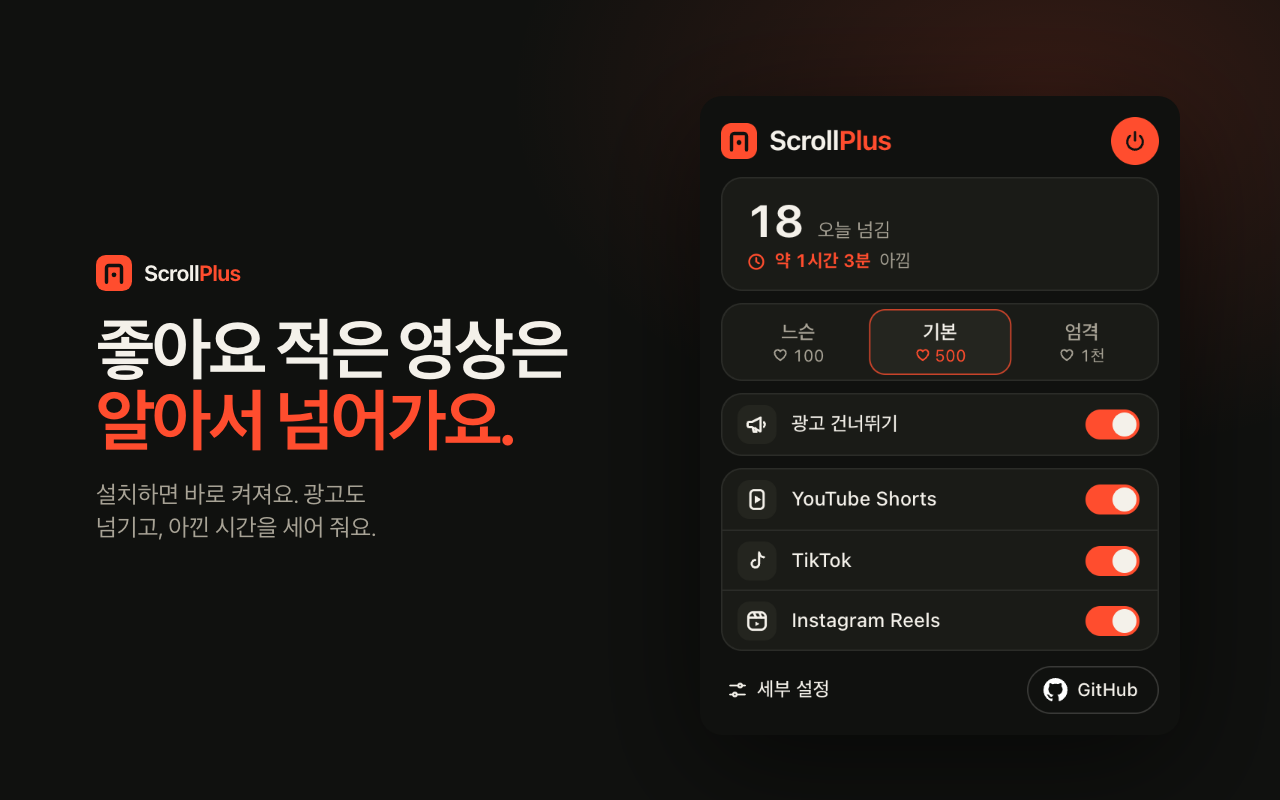
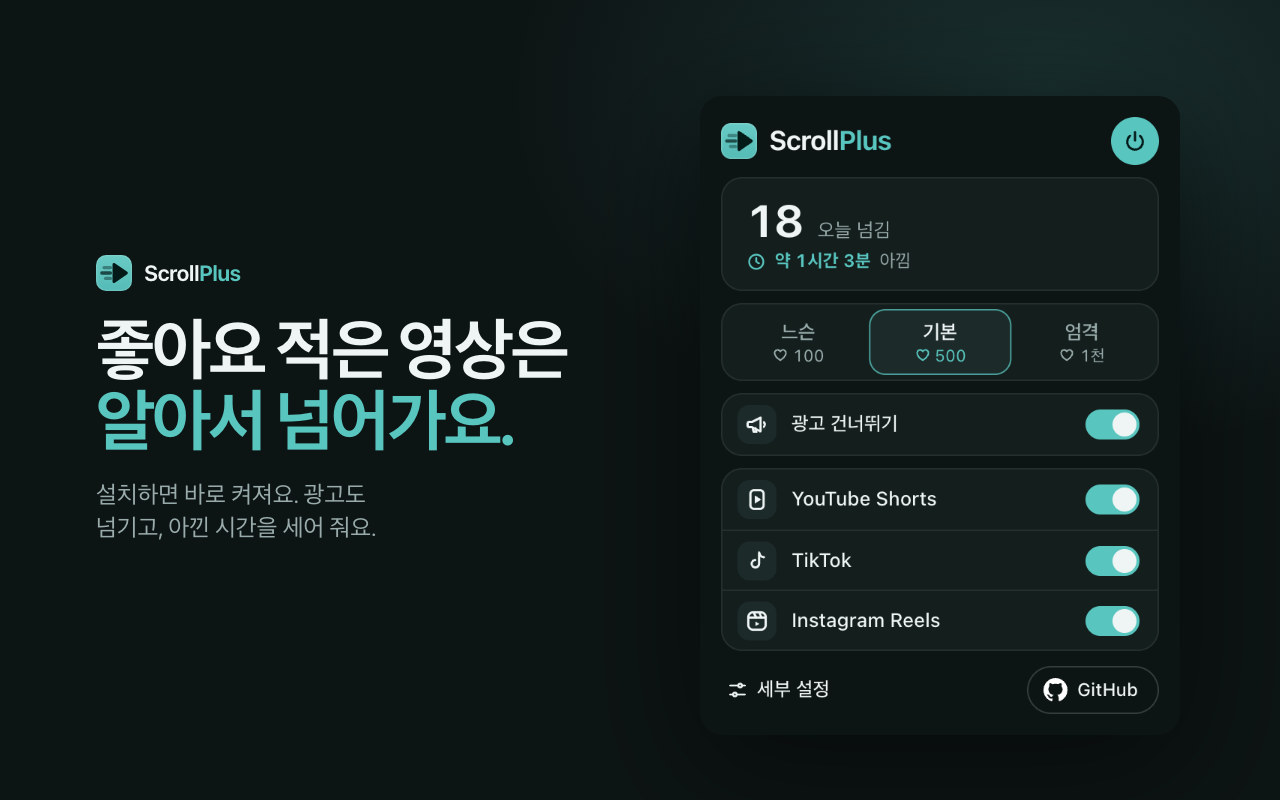
New mark and a calm teal accent picked at one lightness and chroma (0.6.0) (#44)
* New mark and a calm teal accent picked at one lightness and chroma (0.6.0)

The mark is three streaks behind a play triangle in place of the door. The accent is teal at OKLCH 0.76 / 0.10 in place of the orange-red, and the dark surfaces take its hue. Skipping, settings, storage and permissions are unchanged.

* docs: record the 0.6.0 CI runs and the hue choice

diff --git a/src/ui/app.css b/src/ui/app.css
@@ -1,13 +1,15 @@
 :root {
-  --bg: #10110F;
-  --surface: #1A1B17;
-  --surface-2: #24251F;
-  --line: rgba(244, 241, 234, 0.08);
-  --line-strong: rgba(244, 241, 234, 0.18);
-  --text: #F4F1EA;
-  --muted: #A8A396;
-  --accent: #FF4D2E;
-  --accent-ink: #10110F;
+  --bg: #0D1414;
+  --surface: #131E1D;
+  --surface-2: #1C2B2A;
+  --line: rgba(238, 245, 244, 0.08);
+  --line-strong: rgba(238, 245, 244, 0.18);
+  --text: #EEF5F4;
+  --muted: #99ACAB;
+  --accent: #59C5BF;
+  --accent-hover: #6AD6CF;
+  --accent-rgb: 89, 197, 191;
+  --accent-ink: #031A19;
   --ease: cubic-bezier(0.2, 0.8, 0.2, 1);
   --t: 180ms;
   --font: ui-sans-serif, system-ui, -apple-system, "Apple SD Gothic Neo", "Segoe UI", sans-serif;
@@ -31,7 +33,7 @@ h1, h2, p { margin: 0; }
 .power { width: 32px; height: 32px; border-radius: 50%; border: 1px solid var(--line-strong); background: transparent; color: var(--muted); display: grid; place-items: center; transition: background var(--t) var(--ease), color var(--t) var(--ease), border-color var(--t) var(--ease); }
 .power:hover { border-color: var(--text); color: var(--text); }
 .power.on { background: var(--accent); border-color: var(--accent); color: var(--accent-ink); }
-.power.on:hover { background: #FF6446; border-color: #FF6446; color: var(--accent-ink); }
+.power.on:hover { background: var(--accent-hover); border-color: var(--accent-hover); color: var(--accent-ink); }
 .power.wide { display: inline-flex; align-items: center; justify-content: center; width: auto; padding: 0 14px 0 11px; gap: 7px; border-radius: 99px; height: 36px; font-size: 13px; font-weight: 600; white-space: nowrap; }
 
 .hero { display: flex; flex-direction: column; justify-content: center; gap: 5px; height: 76px; padding: 0 16px; background: var(--surface); border: 1px solid var(--line); border-radius: 14px; }
@@ -52,7 +54,7 @@ h1, h2, p { margin: 0; }
 .stats-note { color: var(--muted); font-size: 12px; line-height: 1.5; }
 
 .presets { position: relative; display: grid; grid-template-columns: repeat(3, 1fr); padding: 3px; background: var(--surface); border: 1px solid var(--line); border-radius: 14px; }
-.presets .thumb-slide { position: absolute; top: 3px; bottom: 3px; left: 3px; width: calc((100% - 6px) / 3); border-radius: 11px; background: var(--surface-2); box-shadow: inset 0 0 0 1px rgba(255, 77, 46, 0.75); transition: transform var(--t) var(--ease), opacity var(--t) var(--ease); pointer-events: none; }
+.presets .thumb-slide { position: absolute; top: 3px; bottom: 3px; left: 3px; width: calc((100% - 6px) / 3); border-radius: 11px; background: var(--surface-2); box-shadow: inset 0 0 0 1px rgba(var(--accent-rgb), 0.75); transition: transform var(--t) var(--ease), opacity var(--t) var(--ease); pointer-events: none; }
 .preset { position: relative; z-index: 1; height: 44px; border: 0; border-radius: 11px; background: none; color: var(--muted); display: flex; flex-direction: column; align-items: center; justify-content: center; gap: 3px; transition: color var(--t) var(--ease); }
 .preset:hover { color: var(--text); }
 .preset strong { font-size: 13px; font-weight: 600; line-height: 1; }
@@ -93,7 +95,7 @@ h1, h2, p { margin: 0; }
 
 .link { display: inline-flex; align-items: center; gap: 6px; min-height: 32px; padding: 6px 4px; border: 0; border-radius: 8px; background: none; font-size: 13px; font-weight: 500; transition: color var(--t) var(--ease); }
 .link:hover { color: var(--accent); }
-.badge { padding: 2px 7px; border-radius: 99px; background: rgba(255, 77, 46, 0.16); color: var(--accent); font-size: 11px; font-weight: 600; }
+.badge { padding: 2px 7px; border-radius: 99px; background: rgba(var(--accent-rgb), 0.16); color: var(--accent); font-size: 11px; font-weight: 600; }
 .github { display: inline-flex; align-items: center; gap: 7px; height: 32px; padding: 0 13px 0 10px; border: 1px solid var(--line-strong); border-radius: 99px; color: var(--text); text-decoration: none; font-size: 12px; font-weight: 500; transition: border-color var(--t) var(--ease), background var(--t) var(--ease); }
 /* GitHub asks for its mark in white or black, unchanged. */
 .github .icon { color: #fff; }

diff --git a/src/content/chip.ts b/src/content/chip.ts
@@ -11,21 +11,21 @@ const CSS = [
   ":host { all: initial; }",
   "*, *::before, *::after { box-sizing: border-box; }",
   // A dark body keeps the words readable on any video. The accent border and glow keep the chip itself visible on a dark one.
-  ".chip { position: relative; font: 600 15px/1.2 ui-sans-serif, system-ui, -apple-system, 'Apple SD Gothic Neo', 'Segoe UI', sans-serif; color: #F4F1EA; background: #10110F; border: 1.5px solid #FF4D2E; border-radius: 999px; padding: 8px 8px 8px 10px; display: flex; gap: 12px; align-items: center; box-shadow: 0 0 22px rgba(255, 77, 46, 0.5), 0 12px 30px rgba(0, 0, 0, 0.55); animation: in 120ms ease-out both; white-space: nowrap; }",
+  ".chip { position: relative; font: 600 15px/1.2 ui-sans-serif, system-ui, -apple-system, 'Apple SD Gothic Neo', 'Segoe UI', sans-serif; color: #EEF5F4; background: #0D1414; border: 1.5px solid #59C5BF; border-radius: 999px; padding: 8px 8px 8px 10px; display: flex; gap: 12px; align-items: center; box-shadow: 0 0 22px rgba(89, 197, 191, 0.4), 0 12px 30px rgba(0, 0, 0, 0.55); animation: in 120ms ease-out both; white-space: nowrap; }",
   // One ring that widens and fades when the chip appears, to catch the eye without moving the chip.
-  ".chip::after { content: ''; position: absolute; inset: -1.5px; border: 2px solid #FF4D2E; border-radius: inherit; pointer-events: none; animation: ping 700ms ease-out both; }",
+  ".chip::after { content: ''; position: absolute; inset: -1.5px; border: 2px solid #59C5BF; border-radius: inherit; pointer-events: none; animation: ping 700ms ease-out both; }",
   ".chip.leaving { animation: out 200ms ease-out both; }",
   ".chip.leaving::after { display: none; }",
   ".chip.stack { flex-direction: column; align-items: stretch; border-radius: 20px; padding: 14px; gap: 12px; white-space: normal; max-width: 300px; }",
-  ".dot { width: 28px; height: 28px; border-radius: 50%; background: #FF4D2E; color: #10110F; display: grid; place-items: center; flex: none; }",
+  ".dot { width: 28px; height: 28px; border-radius: 50%; background: #59C5BF; color: #031A19; display: grid; place-items: center; flex: none; }",
   ".dot svg { display: block; }",
   ".label { font-variant-numeric: tabular-nums; }",
   ".actions { display: flex; gap: 8px; }",
-  "button { font: inherit; font-weight: 600; color: #F4F1EA; background: rgba(244, 241, 234, 0.12); border: 0; border-radius: 999px; min-height: 34px; padding: 8px 15px; display: inline-flex; align-items: center; justify-content: center; gap: 6px; cursor: pointer; transition: background 180ms ease-out; }",
-  "button:hover { background: rgba(244, 241, 234, 0.18); }",
-  "button:focus-visible { outline: 2px solid #FF4D2E; outline-offset: 2px; }",
-  "button.primary { background: #FF4D2E; color: #10110F; }",
-  "button.primary:hover { background: #FF6446; }",
+  "button { font: inherit; font-weight: 600; color: #EEF5F4; background: rgba(238, 245, 244, 0.12); border: 0; border-radius: 999px; min-height: 34px; padding: 8px 15px; display: inline-flex; align-items: center; justify-content: center; gap: 6px; cursor: pointer; transition: background 180ms ease-out; }",
+  "button:hover { background: rgba(238, 245, 244, 0.18); }",
+  "button:focus-visible { outline: 2px solid #59C5BF; outline-offset: 2px; }",
+  "button.primary { background: #59C5BF; color: #031A19; }",
+  "button.primary:hover { background: #6AD6CF; }",
   "@keyframes in { from { opacity: 0; transform: scale(0.96); } to { opacity: 1; transform: none; } }",
   "@keyframes ping { from { inset: -1.5px; opacity: 0.85; } to { inset: -11px; opacity: 0; } }",
   "@keyframes out { from { opacity: 1; } to { opacity: 0; } }",
@@ -171,7 +171,7 @@ export function mountChip(actions: { undo: () => void; keepGoing: () => void; lo
       if (model.mode === "skipped") {
         const dot = document.createElement("span");
         dot.className = "dot";
-        dot.append(svgIcon("forward", 12));
+        dot.append(svgIcon("streak", 16));
         const label = document.createElement("span");
         label.className = "label";
         label.textContent = skippedLabel(model);

diff --git a/qa/screenshots/review-060/chip.html b/qa/screenshots/review-060/chip.html
@@ -1,0 +1,20 @@
+<style>:host { all: initial; }
+*, *::before, *::after { box-sizing: border-box; }
+.chip { position: relative; font: 600 15px/1.2 ui-sans-serif, system-ui, -apple-system, 'Apple SD Gothic Neo', 'Segoe UI', sans-serif; color: #EEF5F4; background: #0D1414; border: 1.5px solid #59C5BF; border-radius: 999px; padding: 8px 8px 8px 10px; display: flex; gap: 12px; align-items: center; box-shadow: 0 0 22px rgba(89, 197, 191, 0.4), 0 12px 30px rgba(0, 0, 0, 0.55); animation: in 120ms ease-out both; white-space: nowrap; }
+.chip::after { content: ''; position: absolute; inset: -1.5px; border: 2px solid #59C5BF; border-radius: inherit; pointer-events: none; animation: ping 700ms ease-out both; }
+.chip.leaving { animation: out 200ms ease-out both; }
+.chip.leaving::after { display: none; }
+.chip.stack { flex-direction: column; align-items: stretch; border-radius: 20px; padding: 14px; gap: 12px; white-space: normal; max-width: 300px; }
+.dot { width: 28px; height: 28px; border-radius: 50%; background: #59C5BF; color: #031A19; display: grid; place-items: center; flex: none; }
+.dot svg { display: block; }
+.label { font-variant-numeric: tabular-nums; }
+.actions { display: flex; gap: 8px; }
+button { font: inherit; font-weight: 600; color: #EEF5F4; background: rgba(238, 245, 244, 0.12); border: 0; border-radius: 999px; min-height: 34px; padding: 8px 15px; display: inline-flex; align-items: center; justify-content: center; gap: 6px; cursor: pointer; transition: background 180ms ease-out; }
+button:hover { background: rgba(238, 245, 244, 0.18); }
+button:focus-visible { outline: 2px solid #59C5BF; outline-offset: 2px; }
+button.primary { background: #59C5BF; color: #031A19; }
+button.primary:hover { background: #6AD6CF; }
+@keyframes in { from { opacity: 0; transform: scale(0.96); } to { opacity: 1; transform: none; } }
+@keyframes ping { from { inset: -1.5px; opacity: 0.85; } to { inset: -11px; opacity: 0; } }
+@keyframes out { from { opacity: 1; } to { opacity: 0; } }
+@media (prefers-reduced-motion: reduce) { .chip, .chip.leaving, .chip::after { animation-duration: 1ms; } }</style><div><div class="chip" data-mode="skipped" role="status"><span class="dot"><svg viewBox="0 0 16 16" width="16" height="16" fill="none" stroke="currentColor" stroke-width="1.5" stroke-linecap="round" stroke-linejoin="round" aria-hidden="true"><path d="M2.6 5.6h2.6"></path><path d="M1.8 8h3.4"></path><path d="M3.6 10.4h1.6"></path><path d="M7.6 3.6 13.6 8l-6 4.4Z" fill="currentColor" stroke="none"></path></svg></span><span class="label">넘김 · 좋아요 1.5만</span><button type="button"><svg viewBox="0 0 16 16" width="14" height="14" fill="none" stroke="currentColor" stroke-width="1.5" stroke-linecap="round" stroke-linejoin="round" aria-hidden="true"><path d="M5.4 3.2 2.8 5.8l2.6 2.6"></path><path d="M3 5.8h6.2a3.5 3.5 0 0 1 0 7H6.4"></path></svg>되돌리기</button></div></div>

diff --git a/src/ui/kit.tsx b/src/ui/kit.tsx
@@ -27,10 +27,21 @@ export function Wordmark() {
 export function Mark(props: { size?: number }) {
   const size = props.size ?? 22;
   return (
-    <svg className="mark" viewBox="0 0 24 24" width={size} height={size} aria-hidden="true">
-      <rect width="24" height="24" rx="7" fill="#FF4D2E" />
-      <path d="M7 18V8.6A1.6 1.6 0 0 1 8.6 7h6.8A1.6 1.6 0 0 1 17 8.6V18" fill="none" stroke="#10110F" strokeWidth="2.2" strokeLinecap="round" strokeLinejoin="round" />
-      <circle cx="12" cy="13" r="1.6" fill="#10110F" />
+    <svg className="mark" viewBox="0 0 32 32" width={size} height={size} aria-hidden="true">
+      <defs>
+        <linearGradient id="mark-tile" x1="0" y1="0" x2="0" y2="1">
+          <stop offset="0" style={{ stopColor: "color-mix(in srgb, var(--accent), white 10%)" }} />
+          <stop offset="1" style={{ stopColor: "color-mix(in srgb, var(--accent), black 5%)" }} />
+        </linearGradient>
+      </defs>
+      <rect width="32" height="32" rx="9" fill="url(#mark-tile)" />
+      {size > 22 ? <rect x="0.6" y="0.6" width="30.8" height="30.8" rx="8.4" fill="none" stroke="rgba(255,255,255,0.12)" strokeWidth="1.2" /> : null}
+      <g transform="translate(-.4 0)" style={{ stroke: "var(--accent-ink)", fill: "none" }} strokeWidth="3" strokeLinecap="round" strokeLinejoin="round">
+        <path d="M7.6 11.2H13.2" opacity="0.38" />
+        <path d="M5.6 16H13.2" opacity="0.7" />
+        <path d="M9 20.8H13.2" opacity="0.38" />
+        <path d="M16.4 8.4 27.4 16 16.4 23.6Z" strokeWidth="2.6" style={{ fill: "var(--accent-ink)" }} />
+      </g>
     </svg>
   );
 }

diff --git a/src/lib/icons.ts b/src/lib/icons.ts
@@ -1,6 +1,6 @@
 export type IconName =
   | "power" | "heart" | "comment" | "eye" | "youtube" | "tiktok" | "reels" | "sliders" | "github" | "grid"
-  | "pill" | "trash" | "plus" | "minus" | "reset" | "user" | "check" | "undo" | "forward" | "megaphone"
+  | "pill" | "trash" | "plus" | "minus" | "reset" | "user" | "check" | "undo" | "streak" | "megaphone"
   | "clock" | "chipTop" | "chipMiddle" | "chipLower" | "userCheck";
 
 export type Shape =
@@ -35,7 +35,8 @@ export const ICONS: Record<IconName, Shape[]> = {
   check: [p("m3.4 8.4 3 3 6.2-6.4")],
   userCheck: [c(5.8, 5.3, 2.15), p("M2.2 13.5c.35-2.15 1.7-3.4 3.6-3.4 1.05 0 1.95.38 2.55 1.05"), p("M10 9.7l1.55 1.55 2.85-3")],
   undo: [p("M5.4 3.2 2.8 5.8l2.6 2.6"), p("M3 5.8h6.2a3.5 3.5 0 0 1 0 7H6.4")],
-  forward: [p("M3.6 3.8 9 8l-5.4 4.2V3.8Z"), p("M12.4 3.4v9.2")],
+  // The mark: three streaks behind a play triangle.
+  streak: [p("M2.6 5.6h2.6"), p("M1.8 8h3.4"), p("M3.6 10.4h1.6"), p("M7.6 3.6 13.6 8l-6 4.4Z", true)],
   megaphone: [p("M2.6 6.2h2.2l5.6-2.8v9.2L4.8 9.8H2.6a.8.8 0 0 1-.8-.8V7a.8.8 0 0 1 .8-.8Z"), p("M5 9.9l.8 2.9h1.8l-.6-2.4"), p("M12.6 6.4a2.6 2.6 0 0 1 0 3.2")],
   clock: [c(8, 8, 5.8), p("M8 4.8V8l2.2 1.4")],
   // A video with the chip drawn as a short bar: high up, in the middle, low.

diff --git a/wxt.config.ts b/wxt.config.ts
@@ -9,7 +9,7 @@ export default defineConfig({
     short_name: '__MSG_appName__',
     description: '__MSG_extDesc__',
     default_locale: 'en',
-    version: "0.5.3",
+    version: "0.6.0",
     minimum_chrome_version: "120",
     permissions: ['storage'],
     host_permissions: [

diff --git a/SPEC.md b/SPEC.md
@@ -2,7 +2,7 @@
 
 This file is the product spec. Implement it. Do not add features that are not written here. If a rule is missing, leave the behavior out and record the gap in qa/gaps.md. Read this file before coding and again before calling the work done.
 
-Status: 0.5.3 beta. The follow signals accept the longer button labels the sites show (Subscribed to a channel, 구독중 inside a short label, Following, Unfollow) and ignore a caption that only mentions subscribing. YouTube no longer walks the large next and reel-sequence responses, and it does not resend an unchanged video. 0.5.2: Keep accounts I follow now covers YouTube and Instagram as well as TikTok. A video stays, even under the like bar, when the page already says the viewer subscribes or follows that creator. On YouTube that is subscriptionStateEntity.subscribed, or the older subscribeButtonRenderer.subscribed, and the visible Shorts button labelled 구독중 or Subscribed. On Instagram it is friendship_status.following, and the visible button labelled 팔로잉 or Following. On TikTok it remains author.relation 1 or 3. A missing answer is judged by counts. An ad is still skipped when Skip ads is on. No follow list is stored, and permissions are unchanged. 0.5.1 read TikTok only. 0.5.0: The presets are 100, 500 and 1,000 likes (they were 1,000, 5,000 and 20,000), and an install of 0.4.x keeps the preset it had, by name. Skip ads is on from the start. The skip chip sits at the top of the video, centred on it, with a dark body, an accent border and a glow, so that it is seen on a dark video as well, and Settings can move it to the middle or to a place low on the video above the caption. The popup shows an estimate of the time the skips have saved, and Settings shows today, the total and that estimate, with how it is made. The skipping itself is unchanged. 0.4.4: Settings opens in a tab of its own instead of the small dialog that chrome://extensions shows for an options page, and the GitHub button carries GitHub's mark in white instead of a star. Skipping is unchanged: the YouTube, TikTok and Instagram scripts differ from those of 0.4.3 only in the icon table they share with the popup. 0.4.3: On Instagram Reels a skipped reel is on screen for a median 0.32 s instead of 0.62 s (live, signed in, 20,000-like bar, the built Instagram scripts run in the page behind a stand-in for chrome.storage; qa/skip-timing-instagram.md): ScrollPlus waits 100 ms instead of 450 ms between skips, looks at the feed while it scrolls, and presses as soon as the reel is on screen enough. On TikTok the wait after a video arrives is 180 ms instead of 150 ms, because TikTok answers a press made sooner than about 0.16 s after an arrival 0.1 s late: the median skipped video is on screen for 0.31 s instead of 0.38 s (qa/skip-timing-tiktok.md). A person who scrolls Reels with a wheel or trackpad was not simulated. 0.4.2: on TikTok a skipped video is on screen for 0.48 s on average instead of 1.03 s (live, signed out, 20,000-like bar): ScrollPlus no longer presses a Next control that TikTok keeps disabled until it has the next video, waits 150 ms after a video arrives instead of 450 ms between skips, and leaves TikTok's sound alone because TikTok takes a mute made by a script as the person's own choice. A row of skips shows one chip. 0.4.1: on YouTube a Short that follows another skip is on screen for about 0.5 s instead of 0.8 s, a press the site does not act on is pressed again after 0.7 s instead of 2 s, and a Short that is being skipped is muted. Why the first skip stays at about half a second is in qa/skip-timing.md. A Skip ads switch, off by default, moves past an ad that fills the player on YouTube Shorts, TikTok and Instagram Reels. While grid filtering is off, pages are not rescanned for links. Instagram keeps disclosed advertisements and non-video cards. TikTok/Instagram publish only changed rows and active-player data; unchanged embedded payloads are not reparsed. Undo now survives reloads and new tabs for the browser session; Reset clears those temporary choices. Bounded 0.3.5 signed-in default filtering and TikTok Undo/reload/Reset were observed in Aside Chromium 153; earlier 0.3.3/0.3.4 paths retain their own package scope. The exact-0.3.5 automated 24-hour YouTube run completed with two reviewed page-reload recoveries. Current Instagram Undo/reload, broader signed-in Google Chrome, positive-path live Following and ordinary human day-use remain open. See qa/session-undo.md and qa/release-readiness.md. Decisions below are locked.
+Status: 0.6.0 beta. The look changed: the accent is a calm teal in place of the orange-red, the surfaces take its hue, and the mark is three streaks behind a play triangle in place of the door. How a video is judged and skipped is unchanged. 0.5.3: The follow signals accept the longer button labels the sites show (Subscribed to a channel, 구독중 inside a short label, Following, Unfollow) and ignore a caption that only mentions subscribing. YouTube no longer walks the large next and reel-sequence responses, and it does not resend an unchanged video. 0.5.2: Keep accounts I follow now covers YouTube and Instagram as well as TikTok. A video stays, even under the like bar, when the page already says the viewer subscribes or follows that creator. On YouTube that is subscriptionStateEntity.subscribed, or the older subscribeButtonRenderer.subscribed, and the visible Shorts button labelled 구독중 or Subscribed. On Instagram it is friendship_status.following, and the visible button labelled 팔로잉 or Following. On TikTok it remains author.relation 1 or 3. A missing answer is judged by counts. An ad is still skipped when Skip ads is on. No follow list is stored, and permissions are unchanged. 0.5.1 read TikTok only. 0.5.0: The presets are 100, 500 and 1,000 likes (they were 1,000, 5,000 and 20,000), and an install of 0.4.x keeps the preset it had, by name. Skip ads is on from the start. The skip chip sits at the top of the video, centred on it, with a dark body, an accent border and a glow, so that it is seen on a dark video as well, and Settings can move it to the middle or to a place low on the video above the caption. The popup shows an estimate of the time the skips have saved, and Settings shows today, the total and that estimate, with how it is made. The skipping itself is unchanged. 0.4.4: Settings opens in a tab of its own instead of the small dialog that chrome://extensions shows for an options page, and the GitHub button carries GitHub's mark in white instead of a star. Skipping is unchanged: the YouTube, TikTok and Instagram scripts differ from those of 0.4.3 only in the icon table they share with the popup. 0.4.3: On Instagram Reels a skipped reel is on screen for a median 0.32 s instead of 0.62 s (live, signed in, 20,000-like bar, the built Instagram scripts run in the page behind a stand-in for chrome.storage; qa/skip-timing-instagram.md): ScrollPlus waits 100 ms instead of 450 ms between skips, looks at the feed while it scrolls, and presses as soon as the reel is on screen enough. On TikTok the wait after a video arrives is 180 ms instead of 150 ms, because TikTok answers a press made sooner than about 0.16 s after an arrival 0.1 s late: the median skipped video is on screen for 0.31 s instead of 0.38 s (qa/skip-timing-tiktok.md). A person who scrolls Reels with a wheel or trackpad was not simulated. 0.4.2: on TikTok a skipped video is on screen for 0.48 s on average instead of 1.03 s (live, signed out, 20,000-like bar): ScrollPlus no longer presses a Next control that TikTok keeps disabled until it has the next video, waits 150 ms after a video arrives instead of 450 ms between skips, and leaves TikTok's sound alone because TikTok takes a mute made by a script as the person's own choice. A row of skips shows one chip. 0.4.1: on YouTube a Short that follows another skip is on screen for about 0.5 s instead of 0.8 s, a press the site does not act on is pressed again after 0.7 s instead of 2 s, and a Short that is being skipped is muted. Why the first skip stays at about half a second is in qa/skip-timing.md. A Skip ads switch, off by default, moves past an ad that fills the player on YouTube Shorts, TikTok and Instagram Reels. While grid filtering is off, pages are not rescanned for links. Instagram keeps disclosed advertisements and non-video cards. TikTok/Instagram publish only changed rows and active-player data; unchanged embedded payloads are not reparsed. Undo now survives reloads and new tabs for the browser session; Reset clears those temporary choices. Bounded 0.3.5 signed-in default filtering and TikTok Undo/reload/Reset were observed in Aside Chromium 153; earlier 0.3.3/0.3.4 paths retain their own package scope. The exact-0.3.5 automated 24-hour YouTube run completed with two reviewed page-reload recoveries. Current Instagram Undo/reload, broader signed-in Google Chrome, positive-path live Following and ordinary human day-use remain open. See qa/session-undo.md and qa/release-readiness.md. Decisions below are locked.
 
 ## Product
 
@@ -33,7 +33,7 @@ The locale files hold two strings: extName is the manifest name and the store ti
 - Local directory: /Users/jeongjin/Developer/edgethink/kept (keeps its old name)
 - Public GitHub repo: github.com/jeongjin0/scrollplus
 - License: MIT
-- Version: 0.5.3
+- Version: 0.6.0
 - Do not put this project in the Obsidian vault
 - Do not submit it to the Chrome Web Store
 
@@ -233,19 +233,21 @@ The GitHub button shows GitHub's own mark in white (Octicons mark-github, MIT, c
 
 ## Visual system
 
-- Background #10110F
-- Surface #1A1B17, raised surface #24251F
-- Text #F4F1EA
-- Muted text #A8A396
-- Accent #FF4D2E, used for the mark, "Plus" in the wordmark, the on state, the active preset, and the skip chip
+- Background #0D1414
+- Surface #131E1D, raised surface #1C2B2A
+- Text #EEF5F4
+- Muted text #99ACAB
+- Accent #59C5BF (teal, OKLCH lightness 0.76, chroma 0.10, hue 190), used for the mark, "Plus" in the wordmark, the on state, the active preset, and the skip chip. Hover is #6AD6CF. Ink on the accent is #031A19.
+
+The colors come from one hue. Every surface, the text and the accent are the same hue at different lightness and a very low chroma, and the accent has the lightness and chroma of every other candidate hue that was compared (qa/color-study.md). That keeps the accent from shouting against the dark surface, which the old #FF4D2E did. The accent is one set of CSS variables (--accent, --accent-hover, --accent-rgb, --accent-ink), so another hue changes in one place.
 
 Cards have 14px corners. Controls are at least 32px tall in the popup and 34px in options. Every control has a visible keyboard focus ring and an accessible name. Icons are one set, drawn on a 16px grid with a 1.5px stroke. The GitHub mark is GitHub's own filled mark on the same grid and is never recoloured. No purple gradients, glassmorphism, or runtime web fonts. UI text uses ui-sans-serif.
 
-The skip chip has a dark body (#10110F) with cream text (#F4F1EA) at 15px and weight 600, a 1.5px accent border, an accent glow (0 0 22px at 50%) and a 28px accent dot. The dark body keeps the words readable on a bright video, and the border and the glow keep the chip itself visible on a dark one. Its buttons are at least 34px tall. When the chip appears, one accent ring widens and fades over 700ms.
+The skip chip has a dark body (#0D1414) with light text (#EEF5F4) at 15px and weight 600, a 1.5px accent border, an accent glow (0 0 22px at 40%) and a 28px accent dot. The dark body keeps the words readable on a bright video, and the border and the glow keep the chip itself visible on a dark one. Its buttons are at least 34px tall. When the chip appears, one accent ring widens and fades over 700ms.
 
 Motion is ease-out, about 180ms. The preset highlight slides between choices. The skip chip fades in over 120ms (from 96% to full size) and out over 200ms. No bounce. Reduced motion shortens every transition.
 
-The app mark is a rounded square in the accent color with a door-like frame and a dot. It is recognizable at 16px. Generate 16, 32, 48, and 128 sizes from that mark with scripts/render-icons.mjs.
+The app mark is a rounded square in the accent color (a soft light-to-dark gradient, and a thin light rim above 22 px) holding three streaks of unequal strength behind a play triangle, in the ink color. The streaks say a video was passed, the triangle says the next one. It is drawn on a 32 grid with round ends, heavier below 24 px, and it is recognizable at 16px. The skip chip's dot carries the same drawing. Generate 16, 32, 48, and 128 sizes from that mark with scripts/render-icons.mjs.
 
 Store screenshots are original compositions made from the real popup, options page, and skip chip. Do not copy the YouTube, TikTok, or Instagram logos or interfaces, and do not imply affiliation.
 

diff --git a/qa/release-readiness.md b/qa/release-readiness.md
@@ -1,27 +1,30 @@
-# Release readiness · 0.5.3
+# Release readiness · 0.6.0
 
-Checked on 2026-10-12 KST, macOS ARM64. This pass hardens the subscribe and follow reading and cuts repeated work on YouTube. The popup and settings look are unchanged. Permissions are unchanged. Chrome Web Store submission has not occurred.
+Checked on 2026-10-13 KST, macOS ARM64. This candidate changes the look only: the accent is a calm teal (#59C5BF) in place of the orange-red, the surfaces, text and borders take its hue, and the mark is three streaks behind a play triangle in place of the door. How a video is judged and skipped is unchanged. Settings, storage and permissions are unchanged. Chrome Web Store submission has not occurred.
 
 | Check | Result | Evidence / scope |
 | --- | --- | --- |
 | TypeScript | Pass | tsc --noEmit |
-| Unit tests | 110 passed | npm test. Added labels: Subscribed to a channel, 구독중 inside a short label, subscribers ignored, Following creator, Unfollow |
-| Built-script browser tests | 66 passed | npx playwright test, including the YouTube, TikTok and Instagram keep-followed routes |
-| Popup and settings | Looked at | Korean and English popup, 426 px, no scroll. Settings at 1440 px and 420 px. The follow row fits at 420 px. See [ui review](ui-review.md) |
-| Live chip | Looked at | Signed-out YouTube Shorts, built extension, one skip chip "넘김 · 광고" centred on the video. Not a signed-in follow check |
-| Package | Pass | npm run zip and node scripts/check-package.mjs. scrollplus-0.5.3-chrome.zip, 139,866 bytes |
-| Minimum Chrome 120 | Pass | [CI](https://github.com/jeongjin0/scrollplus/actions/runs/38251222810) and [CI](https://github.com/jeongjin0/scrollplus/actions/runs/38251242208). Chrome for Testing 120 and current Chromium. |
+| Unit tests | 110 passed | npm test |
+| Built-script browser tests | 66 passed in CI | Locally the first run had 63 passed and 3 browser start failures while the machine was busy; the three pass when run again. CI ran all 66 on a clean machine, twice |
+| Popup and settings page | Looked at | Korean and English popup, 426 px, no scroll. Settings at 1440 px and 420 px. See [ui review](ui-review.md) |
+| Live skip chip | Looked at | Signed-out YouTube Shorts, built extension, one skip chip with the new dot, centred on the video, readable over a bright title card |
+| Toolbar icon and store images | Looked at | public/icon 16, 32, 48 and 128 and the store images were rendered again from the new mark and colors |
+| Color | Studied | Nine hues at one lightness and chroma, [color study](color-study.md) |
+| Package | Pass | npm run zip and node scripts/check-package.mjs. scrollplus-0.6.0-chrome.zip, 145,128 bytes |
+| Minimum Chrome 120 | Pass | [CI](https://github.com/jeongjin0/scrollplus/actions/runs/38270907486) and [CI](https://github.com/jeongjin0/scrollplus/actions/runs/38270914697): typecheck, 110 unit tests, 66 browser tests on current Chromium and on Chrome for Testing 120. The tile gradient uses color-mix, available from Chrome 111 |
 | Chrome Web Store | Not submitted | Owner decision |
 
 ## Artifact
 
-scrollplus-0.5.3-chrome.zip, 139,866 bytes.
+scrollplus-0.6.0-chrome.zip, 145,128 bytes.
 
-SHA-256: ebe3c03548e8f9b76b51f06def5072a911b24698a48ea7f1ac5472dd45d038e2.
+SHA-256: 3043203158f358bf18ba499d68803d0c35f23f5627d69c08c918425837ee4f08.
 
-The 0.5.2 report is in [release readiness 0.5.2](release-readiness-052.md).
+The 0.5.3 report is in [release readiness 0.5.3](release-readiness-053.md).
 
 ## Remaining gates
 
-1. On a signed-in YouTube, TikTok and Instagram, confirm a subscribed or followed creator stays under the like bar.
-2. The earlier gates stand: a full day of human use, a live Instagram ad, and wheel or trackpad scrolling.
+1. The owner picked teal from the nine candidates on 2026-10-13. The hue is one set of CSS variables if it changes.
+2. The chip over many kinds of video, and the accent on other displays, were not checked.
+3. The gates of 0.5.x stand: a signed-in check of subscribe and follow, a full day of use, a live Instagram ad.

diff --git a/qa/ui-review.md b/qa/ui-review.md
@@ -1,21 +1,17 @@
-# UI review · 0.5.3
+# UI review · 0.6.0
 
-Captured 2026-10-12 from the built extension, Korean and English, at the browser language. Popup height was 426 px in both languages. The settings page was captured at 1440 px and at 420 px. The skip chip was captured on a live signed-out YouTube Shorts page with the built extension.
+Captured 2026-10-13 from the built extension. Popup height 426 px in both languages. Settings at 1440 px and 420 px. The skip chip on a live signed-out YouTube Short.
+
+## What changed
+
+The accent moved from #FF4D2E, about twice as saturated as everything around it, to a teal at the same lightness and chroma as every other candidate hue. The dark surfaces, text and borders lean the same way by a very small amount. The mark is now three streaks of unequal strength behind a play triangle: videos passed, then the next one. The toolbar icon, the popup and settings header, the chip's dot and the store images use it.
 
 ## What holds
 
-The popup is one screen. Power, today's count, the time-saved estimate, the three presets with their like counts, Skip ads, the three sites, Settings and GitHub. Nothing scrolls. The Korean preset row reads 느슨 100, 기본 500, 엄격 1천.
-
-Settings is one column. Rules, sites, behavior, creators, reset. The new row "구독·팔로우 중인 계정은 유지" fits on a 420 px width with its switch, and the number fields drop under their labels there. The chip position control shows 위, 가운데, 아래, with 위 selected. The empty creator list says to add one from the popup. GitHub is the mark plus the word, not a star.
-
-On a live Short the chip sat on the video, centred, and read "넘김 · 광고" with 되돌리기. It stayed readable on a bright title card. That page was signed out, so the subscribe button said 구독 and the follow rule was not the thing being shown.
-
-## What this pass changed
-
-0.5.3 does not restyle the popup or settings. It hardens the follow signals and does less repeated work. Longer labels now count: "Subscribed to …", a short label containing 구독중, "Following …", and Unfollow. A caption that only mentions subscribing still does not. YouTube no longer parses the large sequence and next responses, and it does not resend a video whose counts and follow flag are unchanged. Instagram looks for the follow button beside the reel instead of every button on the page.
+The popup is still one screen with nothing to scroll. Settings is one column and its rows keep their layout at 420 px. The chip stays centred on the video and readable over a bright title card.
 
 ## Still open
 
-A signed-in YouTube, TikTok and Instagram were not available in the browser used for this capture. Whether a channel you actually subscribe to stays under the like bar is still the open check. The chip was seen on the wide Shorts layout, not inside the narrow full-height player.
+Other hues, and how the accent reads on displays other than the one used for these captures. A signed-in check of subscribe and follow.
 
-Images: [popup, Korean](screenshots/review-053/popup-ko.png), [settings, Korean](screenshots/review-053/options-1440-ko.png), [settings at 420 px](screenshots/review-053/options-420-ko.png), [skip chip on a Short](screenshots/review-053/real.png). English copies sit beside them.
+Images: [popup, Korean](screenshots/review-060/popup-ko.png), [settings](screenshots/review-060/options-1440-ko.png), [settings at 420 px](screenshots/review-060/options-420-ko.png), [skip chip](screenshots/review-060/real.png).

diff --git a/qa/color-study.md b/qa/color-study.md
@@ -1,0 +1,30 @@
+# Color study · 0.6.0
+
+The accent before 0.6.0 was #FF4D2E. Measured in OKLCH it sits at lightness 0.65 and chroma 0.23, about twice the chroma of any color around it, so the on state, the active preset and the skip chip shouted on the dark surface. Earlier candidates (0.5.x review pages) were mixed by eye and differed in strength, so they could not be compared fairly.
+
+## Method
+
+Nine hues were compared at one lightness and one chroma, so no candidate is stronger than another to the eye: lightness 0.76, chroma 0.10, hue 28 (coral), 58 (copper), 88 (sand), 125 (moss), 158 (green), 190 (teal), 232 (sky), 272 (indigo) and 322 (orchid). The page also let the chroma move between 0.075, 0.10 and 0.135 and the lightness between 0.70, 0.76 and 0.82. The surfaces, the text and the border are the same hue at a chroma of 0.008 to 0.022, so the dark theme leans toward the accent without coloring it.
+
+## Choice
+
+Teal, hue 190, lightness 0.76, chroma 0.10, is the default of 0.6.0. The owner picked it on 2026-10-13 from the nine candidates.
+
+| Role | Value | OKLCH |
+| --- | --- | --- |
+| Background | #0D1414 | 0.185, 0.012 |
+| Surface | #131E1D | 0.225, 0.016 |
+| Raised surface | #1C2B2A | 0.275, 0.020 |
+| Text | #EEF5F4 | 0.965, 0.008 |
+| Muted text | #99ACAB | 0.73, 0.022 |
+| Accent | #59C5BF | 0.76, 0.10 |
+| Accent hover | #6AD6CF | 0.81, 0.10 |
+| Ink on the accent | #031A19 | 0.20, 0.03 |
+
+Why teal: it is the quietest of the hues that still reads as a switch that is on, it keeps the skip chip visible on a dark and on a bright video, and it is not the color of YouTube (red) or Instagram (an orange to purple gradient). It is close to the cyan in TikTok's logo, which is a mild overlap. Sky and indigo are also calm; sky is the most common color for a tool, and indigo is dimmer on dark videos.
+
+The accent lives in a handful of CSS variables in src/ui/app.css and in one block of the chip's stylesheet, so changing the hue is one edit in each place.
+
+## Not established
+
+Contrast of the chip over a very bright video was looked at on one YouTube Short and one TikTok video, not on every video. The accent was judged on a monitor in a lit room, not on other displays.

diff --git a/qa/release-readiness-053.md b/qa/release-readiness-053.md
@@ -1,0 +1,27 @@
+# Release readiness · 0.5.3
+
+Checked on 2026-10-12 KST, macOS ARM64. This pass hardens the subscribe and follow reading and cuts repeated work on YouTube. The popup and settings look are unchanged. Permissions are unchanged. Chrome Web Store submission has not occurred.
+
+| Check | Result | Evidence / scope |
+| --- | --- | --- |
+| TypeScript | Pass | tsc --noEmit |
+| Unit tests | 110 passed | npm test. Added labels: Subscribed to a channel, 구독중 inside a short label, subscribers ignored, Following creator, Unfollow |
+| Built-script browser tests | 66 passed | npx playwright test, including the YouTube, TikTok and Instagram keep-followed routes |
+| Popup and settings | Looked at | Korean and English popup, 426 px, no scroll. Settings at 1440 px and 420 px. The follow row fits at 420 px. See [ui review](ui-review.md) |
+| Live chip | Looked at | Signed-out YouTube Shorts, built extension, one skip chip "넘김 · 광고" centred on the video. Not a signed-in follow check |
+| Package | Pass | npm run zip and node scripts/check-package.mjs. scrollplus-0.5.3-chrome.zip, 139,866 bytes |
+| Minimum Chrome 120 | Pass | [CI](https://github.com/jeongjin0/scrollplus/actions/runs/38251222810) and [CI](https://github.com/jeongjin0/scrollplus/actions/runs/38251242208). Chrome for Testing 120 and current Chromium. |
+| Chrome Web Store | Not submitted | Owner decision |
+
+## Artifact
+
+scrollplus-0.5.3-chrome.zip, 139,866 bytes.
+
+SHA-256: ebe3c03548e8f9b76b51f06def5072a911b24698a48ea7f1ac5472dd45d038e2.
+
+The 0.5.2 report is in [release readiness 0.5.2](release-readiness-052.md).
+
+## Remaining gates
+
+1. On a signed-in YouTube, TikTok and Instagram, confirm a subscribed or followed creator stays under the like bar.
+2. The earlier gates stand: a full day of human use, a live Instagram ad, and wheel or trackpad scrolling.

diff --git a/CHANGELOG.md b/CHANGELOG.md
@@ -1,5 +1,12 @@
 # Changelog
 
+## 0.6.0 – 2026-10-13
+
+- New look. The accent is a calm teal instead of the orange-red, and the dark surfaces, text and borders share its hue. The old accent was about twice as saturated as the surfaces around it and shouted. The new one is picked at one lightness and one chroma, so no other hue would have looked stronger (the comparison is in [qa/color-study.md](qa/color-study.md)).
+- New mark. Three streaks of unequal strength run behind a play triangle: videos passed, and the next one. It replaces the door. The toolbar icon, the popup and settings header, the skip chip's dot and the store images use it.
+- How a video is judged and skipped is unchanged. Settings, storage and permissions are unchanged.
+
+
 ## 0.5.3 – 2026-10-12
 
 - Hardened the subscribe and follow buttons. A Short labelled "Subscribed to …" or "…구독중", and a Reel labelled "Following …" or "Unfollow", now counts. A caption that merely mentions subscribing still does not.
